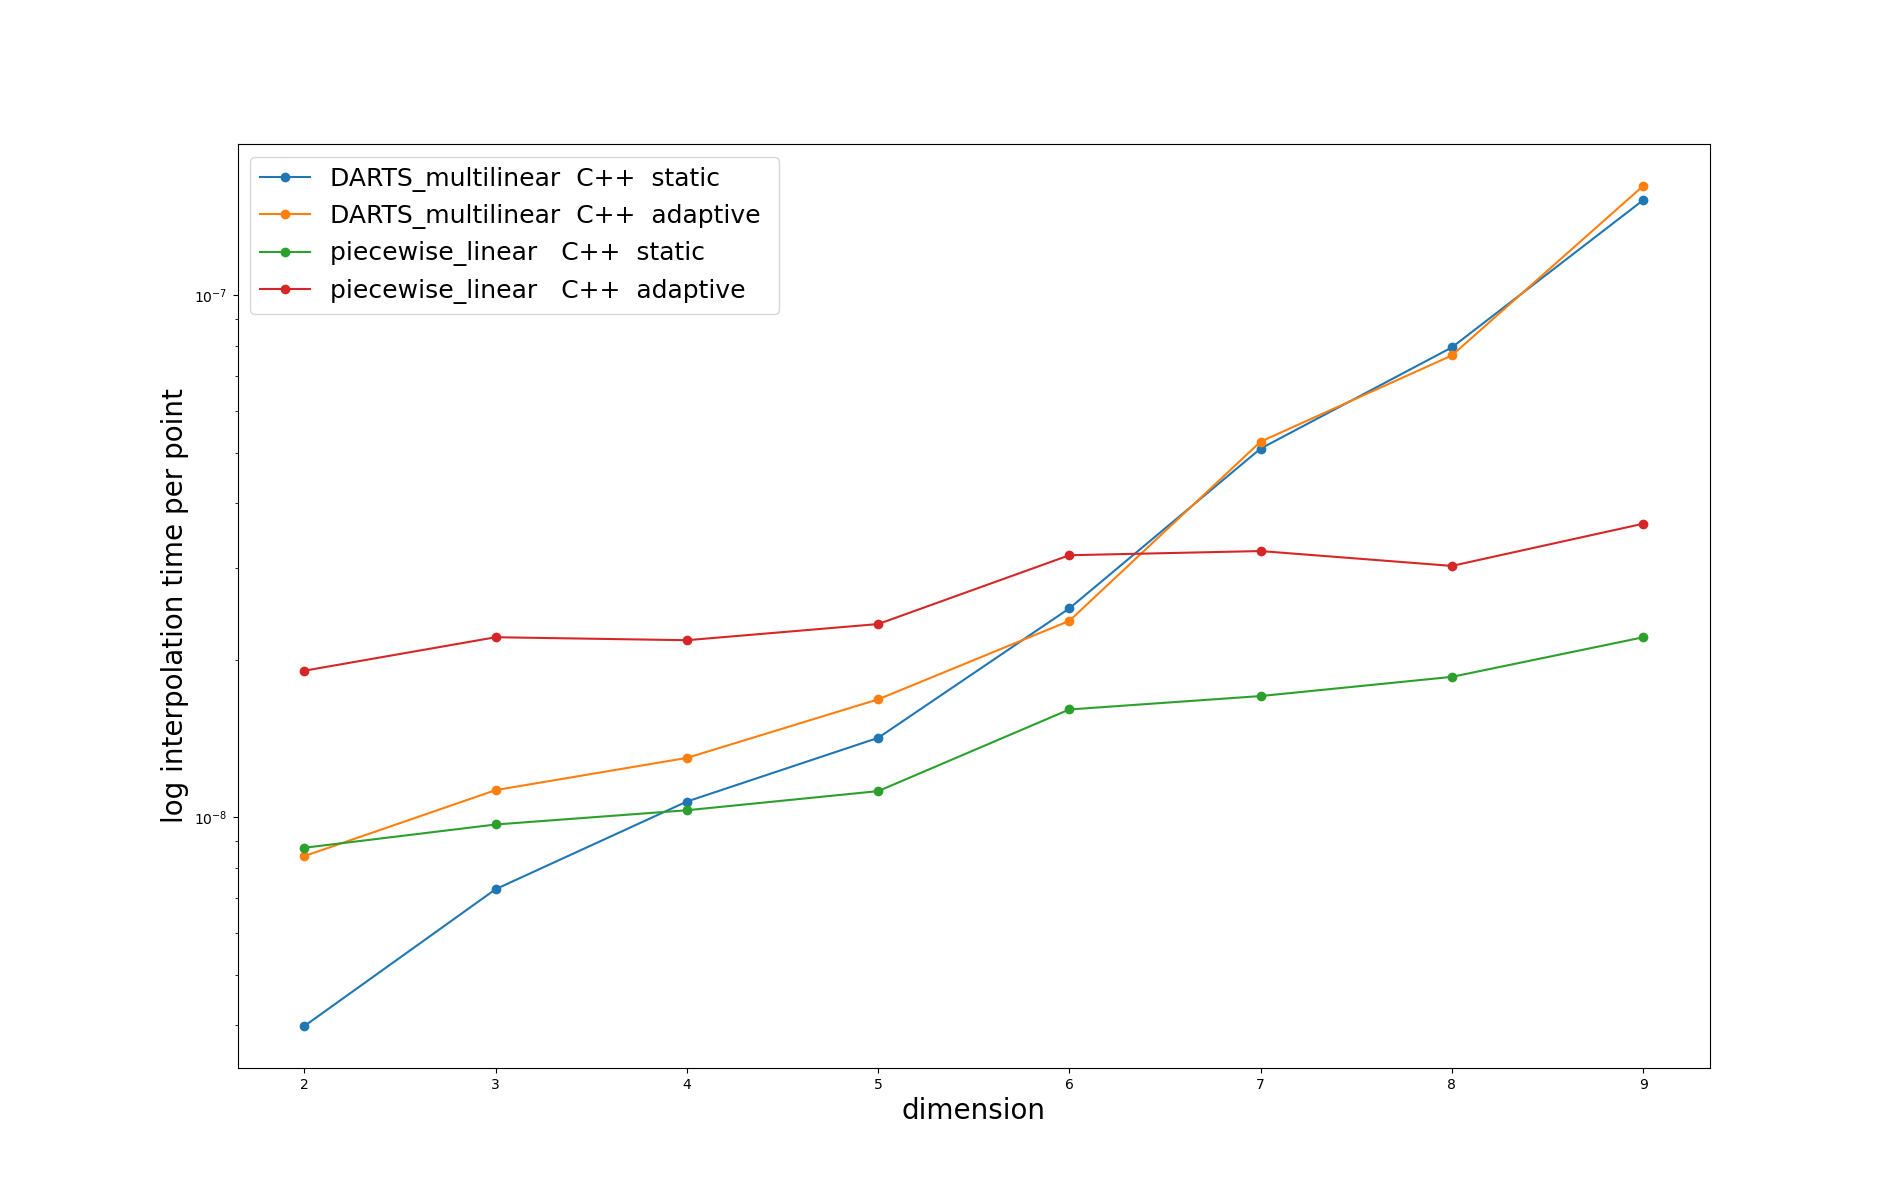
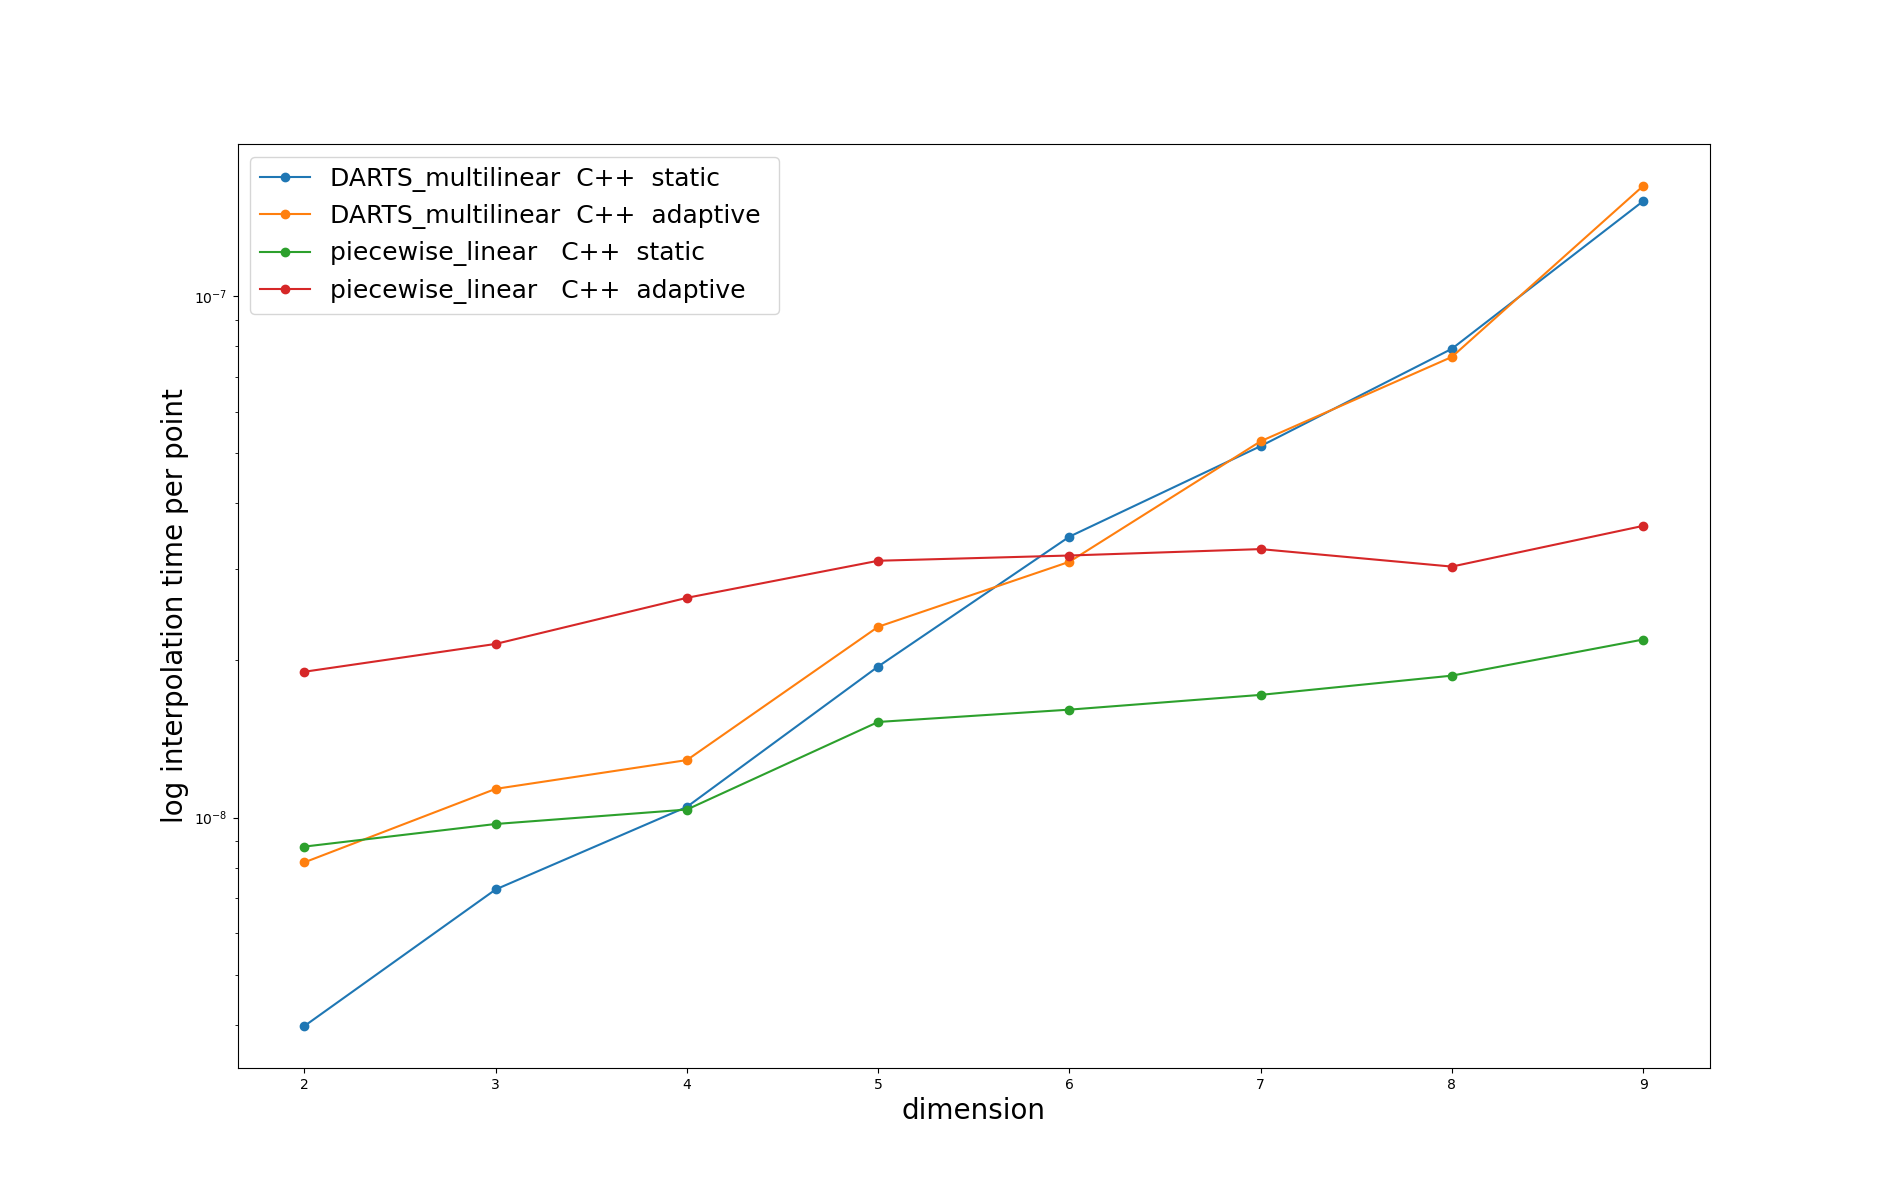
Update simulation function in compare_execution_time()

diff --git a/src/main.py b/src/main.py
@@ -97,8 +97,8 @@ def scipy_delaunay_performance():
 def compare_execution_time():
     time_per_point = dict()
 
-    def func(*var):
-        return np.dot(var, var)
+    def func(*vars):
+        return sum([var * var for var in vars])
 
     n_supporting_pints = 3000000
     n_interp_points = 10000
